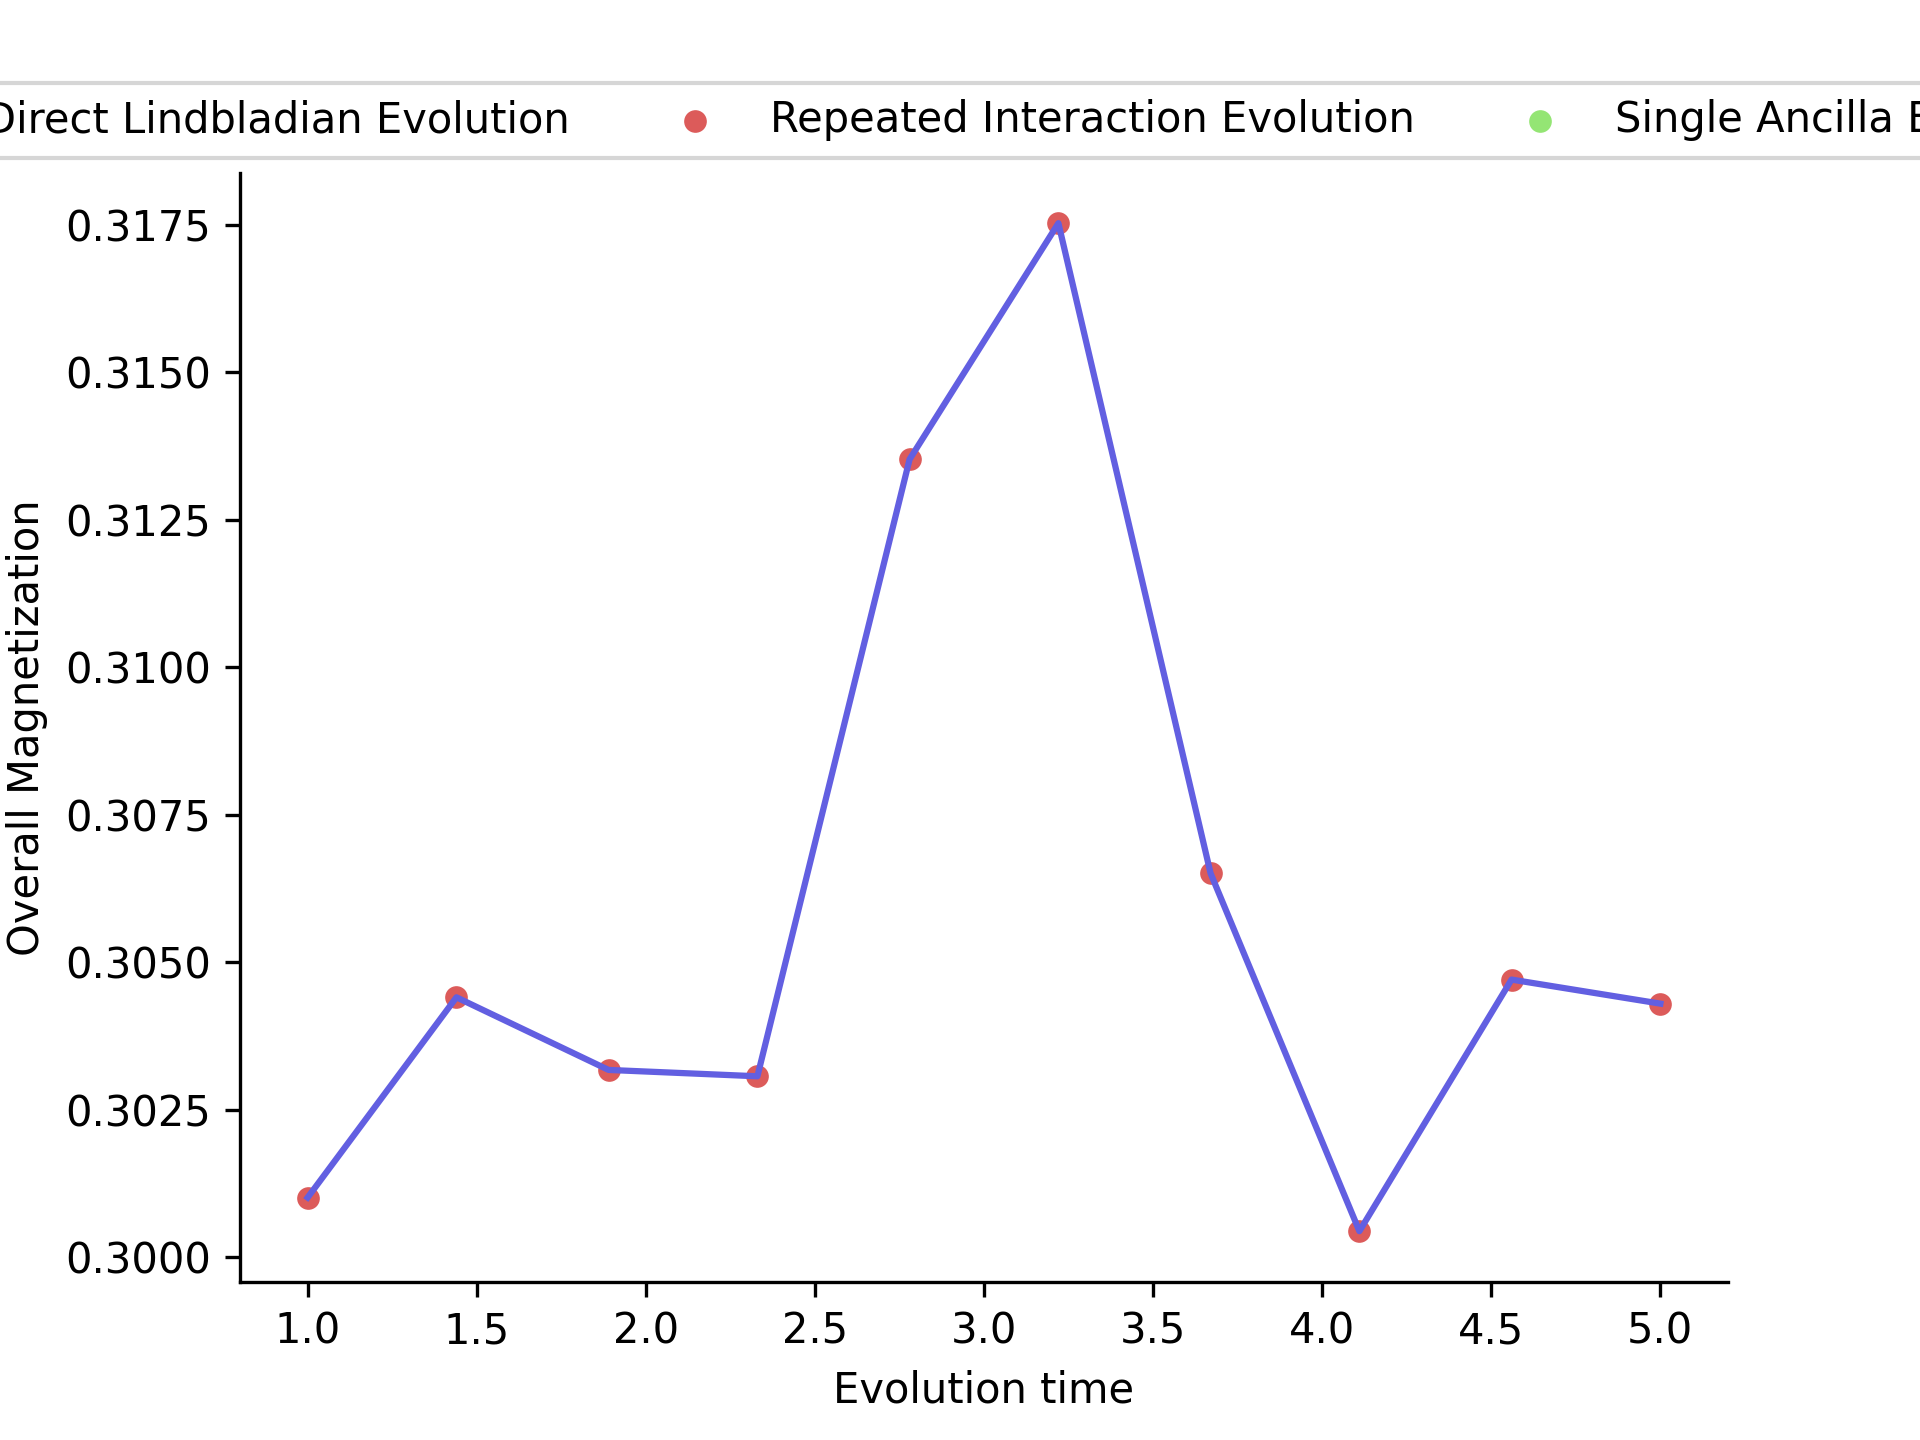
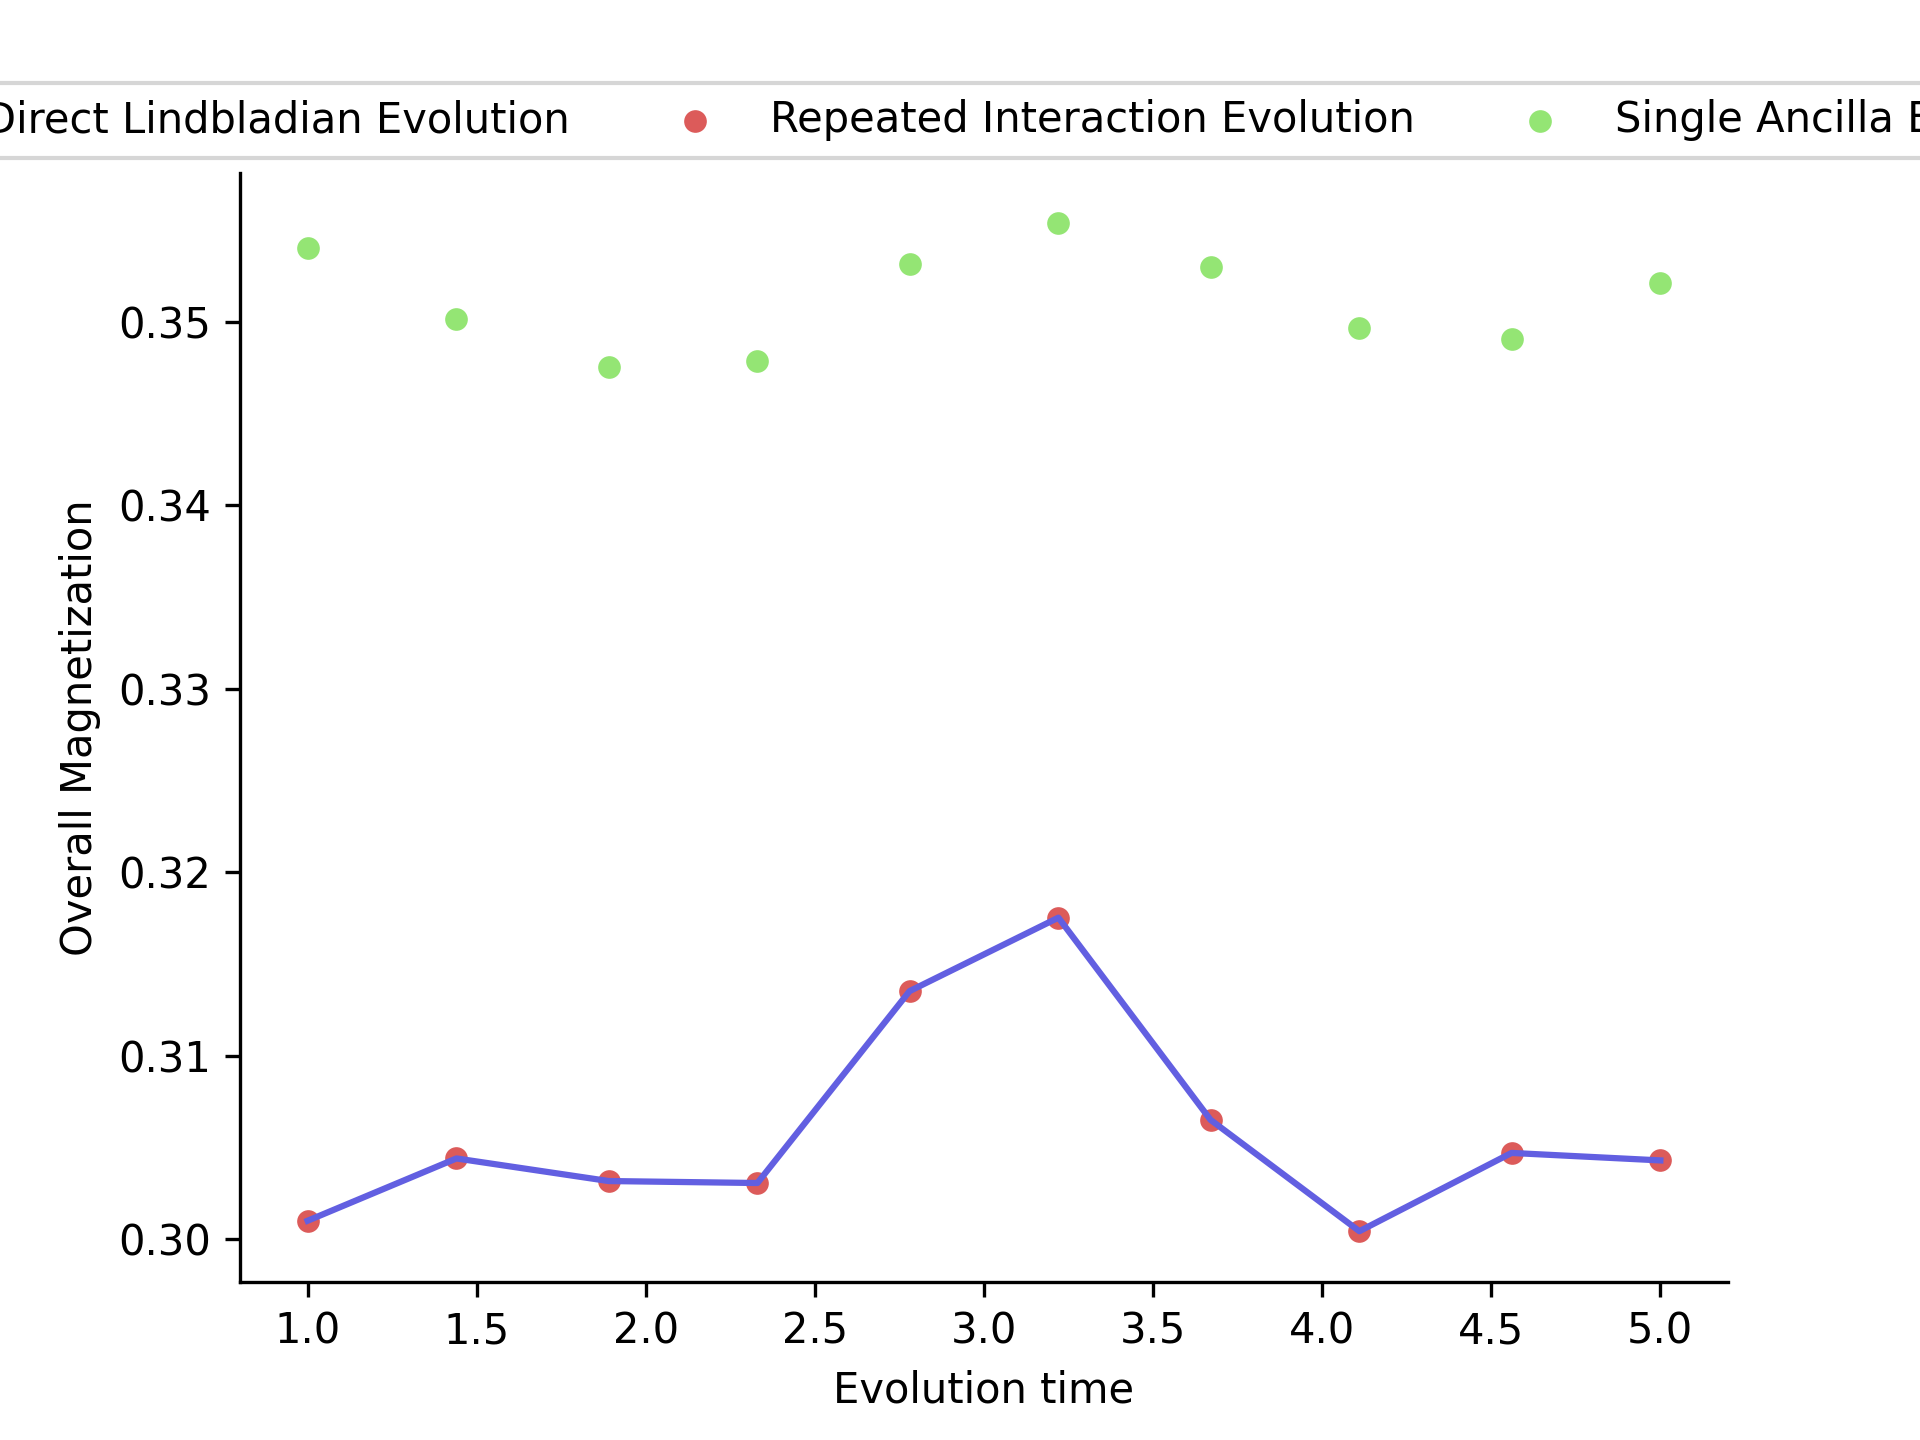
the answers are far, scaling issue perhaps

diff --git a/ising/lindbladian/simulation/multi_cm_damping.py b/ising/lindbladian/simulation/multi_cm_damping.py
@@ -237,10 +237,6 @@ def taylor_evo(rho_sys, rho_env, observable, gamma, time, error, neu=10):
     """
     tau = time / neu
 
-    big_rho_env = rho_env
-    for _ in range(QUBIT_COUNT - 1):
-        big_rho_env = np.kron(big_rho_env, rho_env)
-
     pre_gamma_ham_ints = load_interaction_hams(QUBIT_COUNT)
     ham_ints = []
 
@@ -251,12 +247,13 @@ def taylor_evo(rho_sys, rho_env, observable, gamma, time, error, neu=10):
 
     ham_sys = parametrized_ising(QUBIT_COUNT, H_VAL)
     pauli_sys, coeff_sys = ham_sys.paulis, ham_sys.coeffs
-    pauli_sys = [Pauli(pauli.to_label() + "I" * QUBIT_COUNT) for pauli in pauli_sys]
-    results = []
+
+    # single environment qubit
+    pauli_sys = [Pauli(pauli.to_label() + "I") for pauli in pauli_sys]
 
     magn_h = collision_model_evo(
         rho_sys = rho_sys,
-        big_rho_env = big_rho_env,
+        rho_env = rho_env,
         ham_ints = ham_ints,
         ham_sys = (pauli_sys, coeff_sys),
         tau = tau,
@@ -302,7 +299,7 @@ def test_main():
 
         results["interaction"][time] = np.trace(np.abs(observable @ rho_ham))
         results["lindbladian"][time] = np.trace(np.abs(observable @ rho_lin))
-        # results["sal"][time] = taylor_evo(rho_sys, rho_env, observable, gamma, time, EPS)
+        results["sal"][time] = taylor_evo(rho_sys, rho_env, observable, gamma, time, EPS)
 
     file_name = f"data/lindbladian/time_vs_magn/size_{QUBIT_COUNT}.json"
     with open(file_name, "w") as file:

diff --git a/ising/lindbladian/simulation/utils/interaction_ham.py b/ising/lindbladian/simulation/utils/interaction_ham.py
@@ -6,21 +6,21 @@ SIGMA_MINUS = np.array([[0, 1], [0, 0]])
 SIGMA_PLUS = np.array([[0, 0], [1, 0]])
 
 
-def interaction_hamiltonian(qubit_count):
+def interaction_hamiltonian(QUBIT_COUNT):
     """
-    Construct a `2*qubit_count` Hamiltonian for each interaction point.
-    There will be `qubit_count` of them, acting on two qubits each
+    Construct a `QUBIT_COUNT+1` Hamiltonian for each interaction point.
+    There will be `QUBIT_COUNT` of them, acting on two qubits each
 
     Input:
-        - qubit_count: Size of the chain
+        - QUBIT_COUNT: Size of the chain
         - gamma: Strength of the Hamiltonian
     """
     ham_ints = []
-    for _site in range(qubit_count):
-        sys_site, env_site = _site, _site + qubit_count
+    for _site in range(QUBIT_COUNT):
+        sys_site, env_site = _site, QUBIT_COUNT + 1
 
         ham_int1, ham_int2 = None, None
-        for pos in range(2*qubit_count):
+        for pos in range(QUBIT_COUNT + 1):
             cur_op1, cur_op2 = None, None
             if pos == sys_site:
                 cur_op1, cur_op2 = SIGMA_PLUS, SIGMA_MINUS

diff --git a/ising/lindbladian/simulation/imprecise/taylor.py b/ising/lindbladian/simulation/imprecise/taylor.py
@@ -252,7 +252,7 @@ class Taylor:
 
 def collision_model_evo(
     rho_sys: NDArray,
-    big_rho_env: NDArray,
+    rho_env: NDArray,
     ham_ints: list[tuple[list[Pauli], list[float]]],
     ham_sys: tuple[list[Pauli], list[float]],
     tau: float,
@@ -319,10 +319,10 @@ def collision_model_evo(
 
             for _ in range(neu):
                 for taylor in taylors:
-                    complete_rho = np.kron(cur_rho_sys, big_rho_env)
+                    complete_rho = np.kron(cur_rho_sys, rho_env)
                     rho_fin = taylor.sample_and_evolve(complete_rho)
                     cur_rho_sys = partial_trace(
-                        rho_fin, list(range(qubit_count, 2 * qubit_count))
+                        rho_fin, list(range(qubit_count, qubit_count + 1))
                     )
 
             cur_rho_sys = cur_rho_sys / global_phase(cur_rho_sys)
